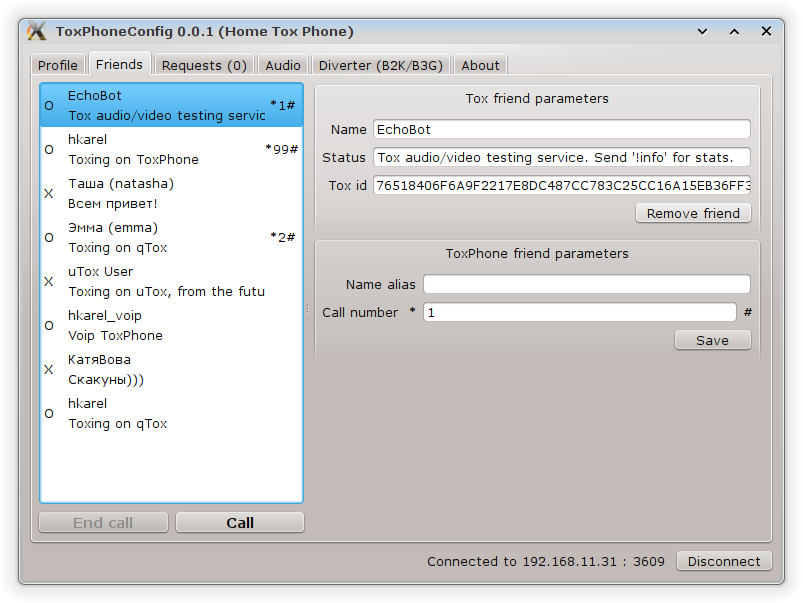
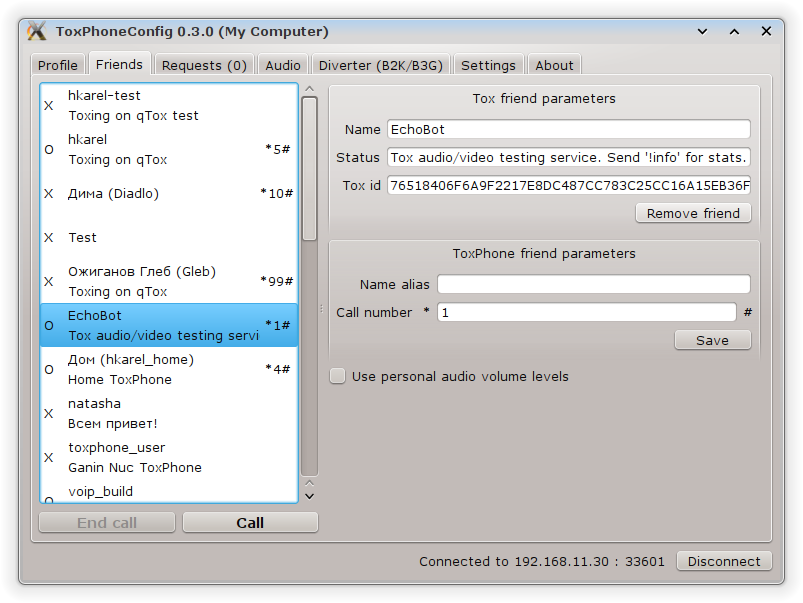
Обновлены скриншоты программы

diff --git a/README.md b/README.md
@@ -15,4 +15,6 @@ ToxPhone - это программно аппаратный клиент для 
 <img src="https://raw.githubusercontent.com/hkarel/ToxPhone/master/doc/ToxPhoneConfig_2.png"/><br>
 <img src="https://raw.githubusercontent.com/hkarel/ToxPhone/master/doc/ToxPhoneConfig_3.png"/><br>
 <img src="https://raw.githubusercontent.com/hkarel/ToxPhone/master/doc/ToxPhoneConfig_4.png"/><br>
+<img src="https://raw.githubusercontent.com/hkarel/ToxPhone/master/doc/ToxPhoneConfig_5.png"/><br>
+<img src="https://raw.githubusercontent.com/hkarel/ToxPhone/master/doc/ToxPhoneConfig_6.png"/><br>
 </p>
